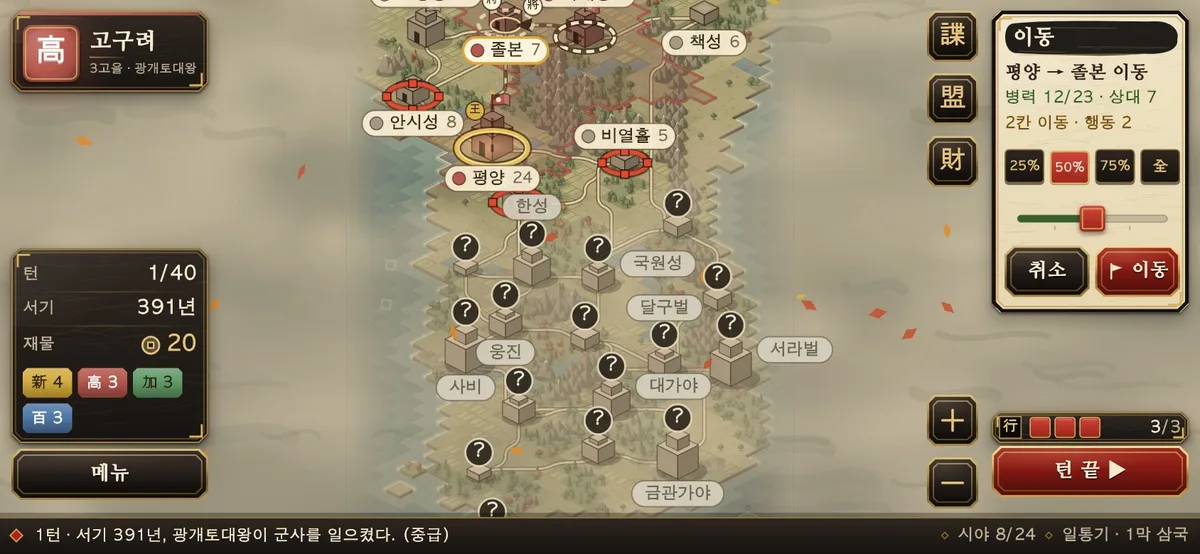
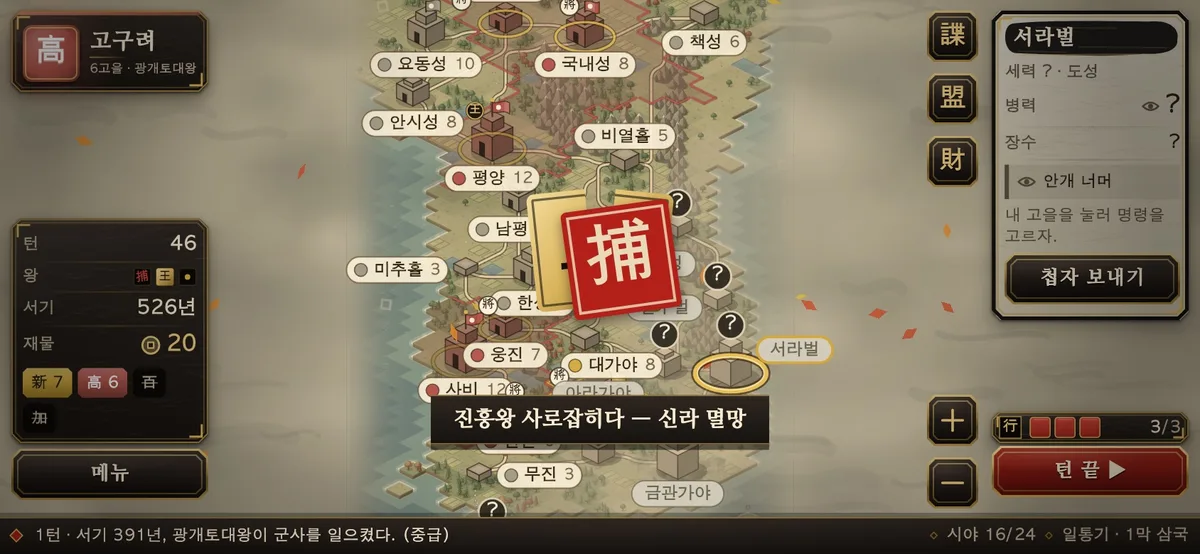
release: 1.0.0+42 개발소식

diff --git a/ru/releases/index.html b/ru/releases/index.html
@@ -64,6 +64,16 @@
       <p class="meta">Эта страница показана на английском.</p>
       <p class="callout">Iltonggi is not released yet. This page lists, in plain words, what changed in each development build we send to TestFlight. The newest build is at the top.</p>
       <div class="rel-list">
+      <article class="rel" id="b42">
+        <h2 class="rel__head"><span class="rel__build">1.0.0+42</span></h2>
+        <p class="rel__at">2026-10-30 11:52 KST</p>
+        <ul>
+          <li>When you set up a new game, a &quot;勝 Victory&quot; scroll now lets you choose how it ends: the usual game where the kingdom with the most land wins after a set number of turns (30 on Easy, 40 on Normal and Hard), or &quot;To the End&quot; — no turn limit, and you win only by capturing every rival king. Your choice is remembered for the next game.</li>
+          <li>In a To the End game, the remaining kings show as gold pips in the status card and rival capitals get a vermilion ring. When a king is captured, the seal cracks and a 捕 stamp comes down. Rival capitals hidden in fog stay hidden until scouts or spies reveal them.</li>
+          <li>Kings and generals can now move to any castle connected through your own land, however far (1 action · troops stay put). Tap &quot;Move King&quot; or &quot;Move General&quot; under the region card, then pick a spot with a gold ring. Rival kingdoms follow the same rule, sending their kings to safety and their generals to the front.</li>
+          <li>History fixes: Isabu became Minister of War in 541, and Sadaham&#x27;s biography now tells what the records say about the land he was given. The base Goguryeo general Ondal is now Moduru and the Gaya general Kim Muryeok is now Inoe, so they no longer share names with the Famous Generals pack.</li>
+        </ul>
+      </article>
       <article class="rel" id="b41">
         <h2 class="rel__head"><span class="rel__build">1.0.0+41</span></h2>
         <p class="rel__at">2026-10-30 06:56 KST</p>

diff --git a/vi/releases/index.html b/vi/releases/index.html
@@ -64,6 +64,16 @@
       <p class="meta">Trang này được hiển thị bằng tiếng Anh.</p>
       <p class="callout">Iltonggi is not released yet. This page lists, in plain words, what changed in each development build we send to TestFlight. The newest build is at the top.</p>
       <div class="rel-list">
+      <article class="rel" id="b42">
+        <h2 class="rel__head"><span class="rel__build">1.0.0+42</span></h2>
+        <p class="rel__at">2026-10-30 11:52 KST</p>
+        <ul>
+          <li>When you set up a new game, a &quot;勝 Victory&quot; scroll now lets you choose how it ends: the usual game where the kingdom with the most land wins after a set number of turns (30 on Easy, 40 on Normal and Hard), or &quot;To the End&quot; — no turn limit, and you win only by capturing every rival king. Your choice is remembered for the next game.</li>
+          <li>In a To the End game, the remaining kings show as gold pips in the status card and rival capitals get a vermilion ring. When a king is captured, the seal cracks and a 捕 stamp comes down. Rival capitals hidden in fog stay hidden until scouts or spies reveal them.</li>
+          <li>Kings and generals can now move to any castle connected through your own land, however far (1 action · troops stay put). Tap &quot;Move King&quot; or &quot;Move General&quot; under the region card, then pick a spot with a gold ring. Rival kingdoms follow the same rule, sending their kings to safety and their generals to the front.</li>
+          <li>History fixes: Isabu became Minister of War in 541, and Sadaham&#x27;s biography now tells what the records say about the land he was given. The base Goguryeo general Ondal is now Moduru and the Gaya general Kim Muryeok is now Inoe, so they no longer share names with the Famous Generals pack.</li>
+        </ul>
+      </article>
       <article class="rel" id="b41">
         <h2 class="rel__head"><span class="rel__build">1.0.0+41</span></h2>
         <p class="rel__at">2026-10-30 06:56 KST</p>

diff --git a/ja/releases/index.html b/ja/releases/index.html
@@ -64,6 +64,16 @@
       <p class="meta">このページは英語で表示されます。</p>
       <p class="callout">Iltonggi is not released yet. This page lists, in plain words, what changed in each development build we send to TestFlight. The newest build is at the top.</p>
       <div class="rel-list">
+      <article class="rel" id="b42">
+        <h2 class="rel__head"><span class="rel__build">1.0.0+42</span></h2>
+        <p class="rel__at">2026-10-30 11:52 KST</p>
+        <ul>
+          <li>When you set up a new game, a &quot;勝 Victory&quot; scroll now lets you choose how it ends: the usual game where the kingdom with the most land wins after a set number of turns (30 on Easy, 40 on Normal and Hard), or &quot;To the End&quot; — no turn limit, and you win only by capturing every rival king. Your choice is remembered for the next game.</li>
+          <li>In a To the End game, the remaining kings show as gold pips in the status card and rival capitals get a vermilion ring. When a king is captured, the seal cracks and a 捕 stamp comes down. Rival capitals hidden in fog stay hidden until scouts or spies reveal them.</li>
+          <li>Kings and generals can now move to any castle connected through your own land, however far (1 action · troops stay put). Tap &quot;Move King&quot; or &quot;Move General&quot; under the region card, then pick a spot with a gold ring. Rival kingdoms follow the same rule, sending their kings to safety and their generals to the front.</li>
+          <li>History fixes: Isabu became Minister of War in 541, and Sadaham&#x27;s biography now tells what the records say about the land he was given. The base Goguryeo general Ondal is now Moduru and the Gaya general Kim Muryeok is now Inoe, so they no longer share names with the Famous Generals pack.</li>
+        </ul>
+      </article>
       <article class="rel" id="b41">
         <h2 class="rel__head"><span class="rel__build">1.0.0+41</span></h2>
         <p class="rel__at">2026-10-30 06:56 KST</p>

diff --git a/id/releases/index.html b/id/releases/index.html
@@ -64,6 +64,16 @@
       <p class="meta">Halaman ini ditampilkan dalam bahasa Inggris.</p>
       <p class="callout">Iltonggi is not released yet. This page lists, in plain words, what changed in each development build we send to TestFlight. The newest build is at the top.</p>
       <div class="rel-list">
+      <article class="rel" id="b42">
+        <h2 class="rel__head"><span class="rel__build">1.0.0+42</span></h2>
+        <p class="rel__at">2026-10-30 11:52 KST</p>
+        <ul>
+          <li>When you set up a new game, a &quot;勝 Victory&quot; scroll now lets you choose how it ends: the usual game where the kingdom with the most land wins after a set number of turns (30 on Easy, 40 on Normal and Hard), or &quot;To the End&quot; — no turn limit, and you win only by capturing every rival king. Your choice is remembered for the next game.</li>
+          <li>In a To the End game, the remaining kings show as gold pips in the status card and rival capitals get a vermilion ring. When a king is captured, the seal cracks and a 捕 stamp comes down. Rival capitals hidden in fog stay hidden until scouts or spies reveal them.</li>
+          <li>Kings and generals can now move to any castle connected through your own land, however far (1 action · troops stay put). Tap &quot;Move King&quot; or &quot;Move General&quot; under the region card, then pick a spot with a gold ring. Rival kingdoms follow the same rule, sending their kings to safety and their generals to the front.</li>
+          <li>History fixes: Isabu became Minister of War in 541, and Sadaham&#x27;s biography now tells what the records say about the land he was given. The base Goguryeo general Ondal is now Moduru and the Gaya general Kim Muryeok is now Inoe, so they no longer share names with the Famous Generals pack.</li>
+        </ul>
+      </article>
       <article class="rel" id="b41">
         <h2 class="rel__head"><span class="rel__build">1.0.0+41</span></h2>
         <p class="rel__at">2026-10-30 06:56 KST</p>

diff --git a/de/releases/index.html b/de/releases/index.html
@@ -64,6 +64,16 @@
       <p class="meta">Diese Seite wird auf Englisch angezeigt.</p>
       <p class="callout">Iltonggi is not released yet. This page lists, in plain words, what changed in each development build we send to TestFlight. The newest build is at the top.</p>
       <div class="rel-list">
+      <article class="rel" id="b42">
+        <h2 class="rel__head"><span class="rel__build">1.0.0+42</span></h2>
+        <p class="rel__at">2026-10-30 11:52 KST</p>
+        <ul>
+          <li>When you set up a new game, a &quot;勝 Victory&quot; scroll now lets you choose how it ends: the usual game where the kingdom with the most land wins after a set number of turns (30 on Easy, 40 on Normal and Hard), or &quot;To the End&quot; — no turn limit, and you win only by capturing every rival king. Your choice is remembered for the next game.</li>
+          <li>In a To the End game, the remaining kings show as gold pips in the status card and rival capitals get a vermilion ring. When a king is captured, the seal cracks and a 捕 stamp comes down. Rival capitals hidden in fog stay hidden until scouts or spies reveal them.</li>
+          <li>Kings and generals can now move to any castle connected through your own land, however far (1 action · troops stay put). Tap &quot;Move King&quot; or &quot;Move General&quot; under the region card, then pick a spot with a gold ring. Rival kingdoms follow the same rule, sending their kings to safety and their generals to the front.</li>
+          <li>History fixes: Isabu became Minister of War in 541, and Sadaham&#x27;s biography now tells what the records say about the land he was given. The base Goguryeo general Ondal is now Moduru and the Gaya general Kim Muryeok is now Inoe, so they no longer share names with the Famous Generals pack.</li>
+        </ul>
+      </article>
       <article class="rel" id="b41">
         <h2 class="rel__head"><span class="rel__build">1.0.0+41</span></h2>
         <p class="rel__at">2026-10-30 06:56 KST</p>

diff --git a/fr/releases/index.html b/fr/releases/index.html
@@ -64,6 +64,16 @@
       <p class="meta">Cette page est affichée en anglais.</p>
       <p class="callout">Iltonggi is not released yet. This page lists, in plain words, what changed in each development build we send to TestFlight. The newest build is at the top.</p>
       <div class="rel-list">
+      <article class="rel" id="b42">
+        <h2 class="rel__head"><span class="rel__build">1.0.0+42</span></h2>
+        <p class="rel__at">2026-10-30 11:52 KST</p>
+        <ul>
+          <li>When you set up a new game, a &quot;勝 Victory&quot; scroll now lets you choose how it ends: the usual game where the kingdom with the most land wins after a set number of turns (30 on Easy, 40 on Normal and Hard), or &quot;To the End&quot; — no turn limit, and you win only by capturing every rival king. Your choice is remembered for the next game.</li>
+          <li>In a To the End game, the remaining kings show as gold pips in the status card and rival capitals get a vermilion ring. When a king is captured, the seal cracks and a 捕 stamp comes down. Rival capitals hidden in fog stay hidden until scouts or spies reveal them.</li>
+          <li>Kings and generals can now move to any castle connected through your own land, however far (1 action · troops stay put). Tap &quot;Move King&quot; or &quot;Move General&quot; under the region card, then pick a spot with a gold ring. Rival kingdoms follow the same rule, sending their kings to safety and their generals to the front.</li>
+          <li>History fixes: Isabu became Minister of War in 541, and Sadaham&#x27;s biography now tells what the records say about the land he was given. The base Goguryeo general Ondal is now Moduru and the Gaya general Kim Muryeok is now Inoe, so they no longer share names with the Famous Generals pack.</li>
+        </ul>
+      </article>
       <article class="rel" id="b41">
         <h2 class="rel__head"><span class="rel__build">1.0.0+41</span></h2>
         <p class="rel__at">2026-10-30 06:56 KST</p>

diff --git a/es/releases/index.html b/es/releases/index.html
@@ -64,6 +64,16 @@
       <p class="meta">Esta página se muestra en inglés.</p>
       <p class="callout">Iltonggi is not released yet. This page lists, in plain words, what changed in each development build we send to TestFlight. The newest build is at the top.</p>
       <div class="rel-list">
+      <article class="rel" id="b42">
+        <h2 class="rel__head"><span class="rel__build">1.0.0+42</span></h2>
+        <p class="rel__at">2026-10-30 11:52 KST</p>
+        <ul>
+          <li>When you set up a new game, a &quot;勝 Victory&quot; scroll now lets you choose how it ends: the usual game where the kingdom with the most land wins after a set number of turns (30 on Easy, 40 on Normal and Hard), or &quot;To the End&quot; — no turn limit, and you win only by capturing every rival king. Your choice is remembered for the next game.</li>
+          <li>In a To the End game, the remaining kings show as gold pips in the status card and rival capitals get a vermilion ring. When a king is captured, the seal cracks and a 捕 stamp comes down. Rival capitals hidden in fog stay hidden until scouts or spies reveal them.</li>
+          <li>Kings and generals can now move to any castle connected through your own land, however far (1 action · troops stay put). Tap &quot;Move King&quot; or &quot;Move General&quot; under the region card, then pick a spot with a gold ring. Rival kingdoms follow the same rule, sending their kings to safety and their generals to the front.</li>
+          <li>History fixes: Isabu became Minister of War in 541, and Sadaham&#x27;s biography now tells what the records say about the land he was given. The base Goguryeo general Ondal is now Moduru and the Gaya general Kim Muryeok is now Inoe, so they no longer share names with the Famous Generals pack.</li>
+        </ul>
+      </article>
       <article class="rel" id="b41">
         <h2 class="rel__head"><span class="rel__build">1.0.0+41</span></h2>
         <p class="rel__at">2026-10-30 06:56 KST</p>

diff --git a/pt/releases/index.html b/pt/releases/index.html
@@ -64,6 +64,16 @@
       <p class="meta">Esta página é exibida em inglês.</p>
       <p class="callout">Iltonggi is not released yet. This page lists, in plain words, what changed in each development build we send to TestFlight. The newest build is at the top.</p>
       <div class="rel-list">
+      <article class="rel" id="b42">
+        <h2 class="rel__head"><span class="rel__build">1.0.0+42</span></h2>
+        <p class="rel__at">2026-10-30 11:52 KST</p>
+        <ul>
+          <li>When you set up a new game, a &quot;勝 Victory&quot; scroll now lets you choose how it ends: the usual game where the kingdom with the most land wins after a set number of turns (30 on Easy, 40 on Normal and Hard), or &quot;To the End&quot; — no turn limit, and you win only by capturing every rival king. Your choice is remembered for the next game.</li>
+          <li>In a To the End game, the remaining kings show as gold pips in the status card and rival capitals get a vermilion ring. When a king is captured, the seal cracks and a 捕 stamp comes down. Rival capitals hidden in fog stay hidden until scouts or spies reveal them.</li>
+          <li>Kings and generals can now move to any castle connected through your own land, however far (1 action · troops stay put). Tap &quot;Move King&quot; or &quot;Move General&quot; under the region card, then pick a spot with a gold ring. Rival kingdoms follow the same rule, sending their kings to safety and their generals to the front.</li>
+          <li>History fixes: Isabu became Minister of War in 541, and Sadaham&#x27;s biography now tells what the records say about the land he was given. The base Goguryeo general Ondal is now Moduru and the Gaya general Kim Muryeok is now Inoe, so they no longer share names with the Famous Generals pack.</li>
+        </ul>
+      </article>
       <article class="rel" id="b41">
         <h2 class="rel__head"><span class="rel__build">1.0.0+41</span></h2>
         <p class="rel__at">2026-10-30 06:56 KST</p>

diff --git a/ko/releases/index.html b/ko/releases/index.html
@@ -63,6 +63,16 @@
       <h1>개발 소식</h1>
       <p class="callout">아직 출시 전입니다. 이 페이지는 TestFlight 로 올라가는 개발 빌드마다 바뀐 점을 플레이어가 알아보기 쉬운 말로 적습니다. 최신 빌드가 맨 위입니다.</p>
       <div class="rel-list">
+      <article class="rel" id="b42">
+        <h2 class="rel__head"><span class="rel__build">1.0.0+42</span></h2>
+        <p class="rel__at">2026-10-30 11:52 KST</p>
+        <ul>
+          <li>새 판을 고를 때 「勝 승부」 족자에서 판의 끝을 정할 수 있어요. 지금처럼 정해진 턴(초급 30 · 중급 · 고급 40)이 지나면 땅이 가장 많은 나라가 이기는 판, 또는 턴 제한 없이 다른 나라 왕을 모두 사로잡아야 끝나는 「끝장 판」. 고른 승부는 다음 판에도 기억해요.</li>
+          <li>끝장 판에서는 왼쪽 상태 패에 남은 왕이 금 알로 보이고, 적 왕성에는 주홍 테가 둘려요. 왕이 사로잡히면 인장이 깨지며 「捕」 도장이 찍혀요. 안개 속 적 왕성은 정찰 · 첩자로 드러내야 보여요.</li>
+          <li>왕과 장수를 내 땅으로 이어진 성이면 거리와 상관없이 옮길 수 있어요(행동 1 · 병력은 그대로). 고을 정보 아래 「왕 옮기기」 · 「장수 옮기기」를 누르고 금 고리가 둘린 곳을 고르면 돼요. 적 나라도 같은 규칙으로 왕을 피신시키고 장수를 국경으로 보내요.</li>
+          <li>고증 바로잡기: 이사부가 병부령이 된 해를 541년으로, 사다함 열전의 땅 이야기를 사서대로 고쳤어요. 기본 장수 고구려 온달은 모두루, 가야 김무력은 이뇌왕으로 바뀌어 명장 팩과 이름이 겹치지 않아요.</li>
+        </ul>
+      </article>
       <article class="rel" id="b41">
         <h2 class="rel__head"><span class="rel__build">1.0.0+41</span></h2>
         <p class="rel__at">2026-10-30 06:56 KST</p>

diff --git a/zh/releases/index.html b/zh/releases/index.html
@@ -64,6 +64,16 @@
       <p class="meta">本页以英文显示。</p>
       <p class="callout">Iltonggi is not released yet. This page lists, in plain words, what changed in each development build we send to TestFlight. The newest build is at the top.</p>
       <div class="rel-list">
+      <article class="rel" id="b42">
+        <h2 class="rel__head"><span class="rel__build">1.0.0+42</span></h2>
+        <p class="rel__at">2026-10-30 11:52 KST</p>
+        <ul>
+          <li>When you set up a new game, a &quot;勝 Victory&quot; scroll now lets you choose how it ends: the usual game where the kingdom with the most land wins after a set number of turns (30 on Easy, 40 on Normal and Hard), or &quot;To the End&quot; — no turn limit, and you win only by capturing every rival king. Your choice is remembered for the next game.</li>
+          <li>In a To the End game, the remaining kings show as gold pips in the status card and rival capitals get a vermilion ring. When a king is captured, the seal cracks and a 捕 stamp comes down. Rival capitals hidden in fog stay hidden until scouts or spies reveal them.</li>
+          <li>Kings and generals can now move to any castle connected through your own land, however far (1 action · troops stay put). Tap &quot;Move King&quot; or &quot;Move General&quot; under the region card, then pick a spot with a gold ring. Rival kingdoms follow the same rule, sending their kings to safety and their generals to the front.</li>
+          <li>History fixes: Isabu became Minister of War in 541, and Sadaham&#x27;s biography now tells what the records say about the land he was given. The base Goguryeo general Ondal is now Moduru and the Gaya general Kim Muryeok is now Inoe, so they no longer share names with the Famous Generals pack.</li>
+        </ul>
+      </article>
       <article class="rel" id="b41">
         <h2 class="rel__head"><span class="rel__build">1.0.0+41</span></h2>
         <p class="rel__at">2026-10-30 06:56 KST</p>

diff --git a/en/releases/index.html b/en/releases/index.html
@@ -63,6 +63,16 @@
       <h1>Release notes</h1>
       <p class="callout">Iltonggi is not released yet. This page lists, in plain words, what changed in each development build we send to TestFlight. The newest build is at the top.</p>
       <div class="rel-list">
+      <article class="rel" id="b42">
+        <h2 class="rel__head"><span class="rel__build">1.0.0+42</span></h2>
+        <p class="rel__at">2026-10-30 11:52 KST</p>
+        <ul>
+          <li>When you set up a new game, a &quot;勝 Victory&quot; scroll now lets you choose how it ends: the usual game where the kingdom with the most land wins after a set number of turns (30 on Easy, 40 on Normal and Hard), or &quot;To the End&quot; — no turn limit, and you win only by capturing every rival king. Your choice is remembered for the next game.</li>
+          <li>In a To the End game, the remaining kings show as gold pips in the status card and rival capitals get a vermilion ring. When a king is captured, the seal cracks and a 捕 stamp comes down. Rival capitals hidden in fog stay hidden until scouts or spies reveal them.</li>
+          <li>Kings and generals can now move to any castle connected through your own land, however far (1 action · troops stay put). Tap &quot;Move King&quot; or &quot;Move General&quot; under the region card, then pick a spot with a gold ring. Rival kingdoms follow the same rule, sending their kings to safety and their generals to the front.</li>
+          <li>History fixes: Isabu became Minister of War in 541, and Sadaham&#x27;s biography now tells what the records say about the land he was given. The base Goguryeo general Ondal is now Moduru and the Gaya general Kim Muryeok is now Inoe, so they no longer share names with the Famous Generals pack.</li>
+        </ul>
+      </article>
       <article class="rel" id="b41">
         <h2 class="rel__head"><span class="rel__build">1.0.0+41</span></h2>
         <p class="rel__at">2026-10-30 06:56 KST</p>

diff --git a/releases/index.html b/releases/index.html
@@ -63,6 +63,16 @@
       <h1>Release notes</h1>
       <p class="callout">Iltonggi is not released yet. This page lists, in plain words, what changed in each development build we send to TestFlight. The newest build is at the top.</p>
       <div class="rel-list">
+      <article class="rel" id="b42">
+        <h2 class="rel__head"><span class="rel__build">1.0.0+42</span></h2>
+        <p class="rel__at">2026-10-30 11:52 KST</p>
+        <ul>
+          <li>When you set up a new game, a &quot;勝 Victory&quot; scroll now lets you choose how it ends: the usual game where the kingdom with the most land wins after a set number of turns (30 on Easy, 40 on Normal and Hard), or &quot;To the End&quot; — no turn limit, and you win only by capturing every rival king. Your choice is remembered for the next game.</li>
+          <li>In a To the End game, the remaining kings show as gold pips in the status card and rival capitals get a vermilion ring. When a king is captured, the seal cracks and a 捕 stamp comes down. Rival capitals hidden in fog stay hidden until scouts or spies reveal them.</li>
+          <li>Kings and generals can now move to any castle connected through your own land, however far (1 action · troops stay put). Tap &quot;Move King&quot; or &quot;Move General&quot; under the region card, then pick a spot with a gold ring. Rival kingdoms follow the same rule, sending their kings to safety and their generals to the front.</li>
+          <li>History fixes: Isabu became Minister of War in 541, and Sadaham&#x27;s biography now tells what the records say about the land he was given. The base Goguryeo general Ondal is now Moduru and the Gaya general Kim Muryeok is now Inoe, so they no longer share names with the Famous Generals pack.</li>
+        </ul>
+      </article>
       <article class="rel" id="b41">
         <h2 class="rel__head"><span class="rel__build">1.0.0+41</span></h2>
         <p class="rel__at">2026-10-30 06:56 KST</p>
